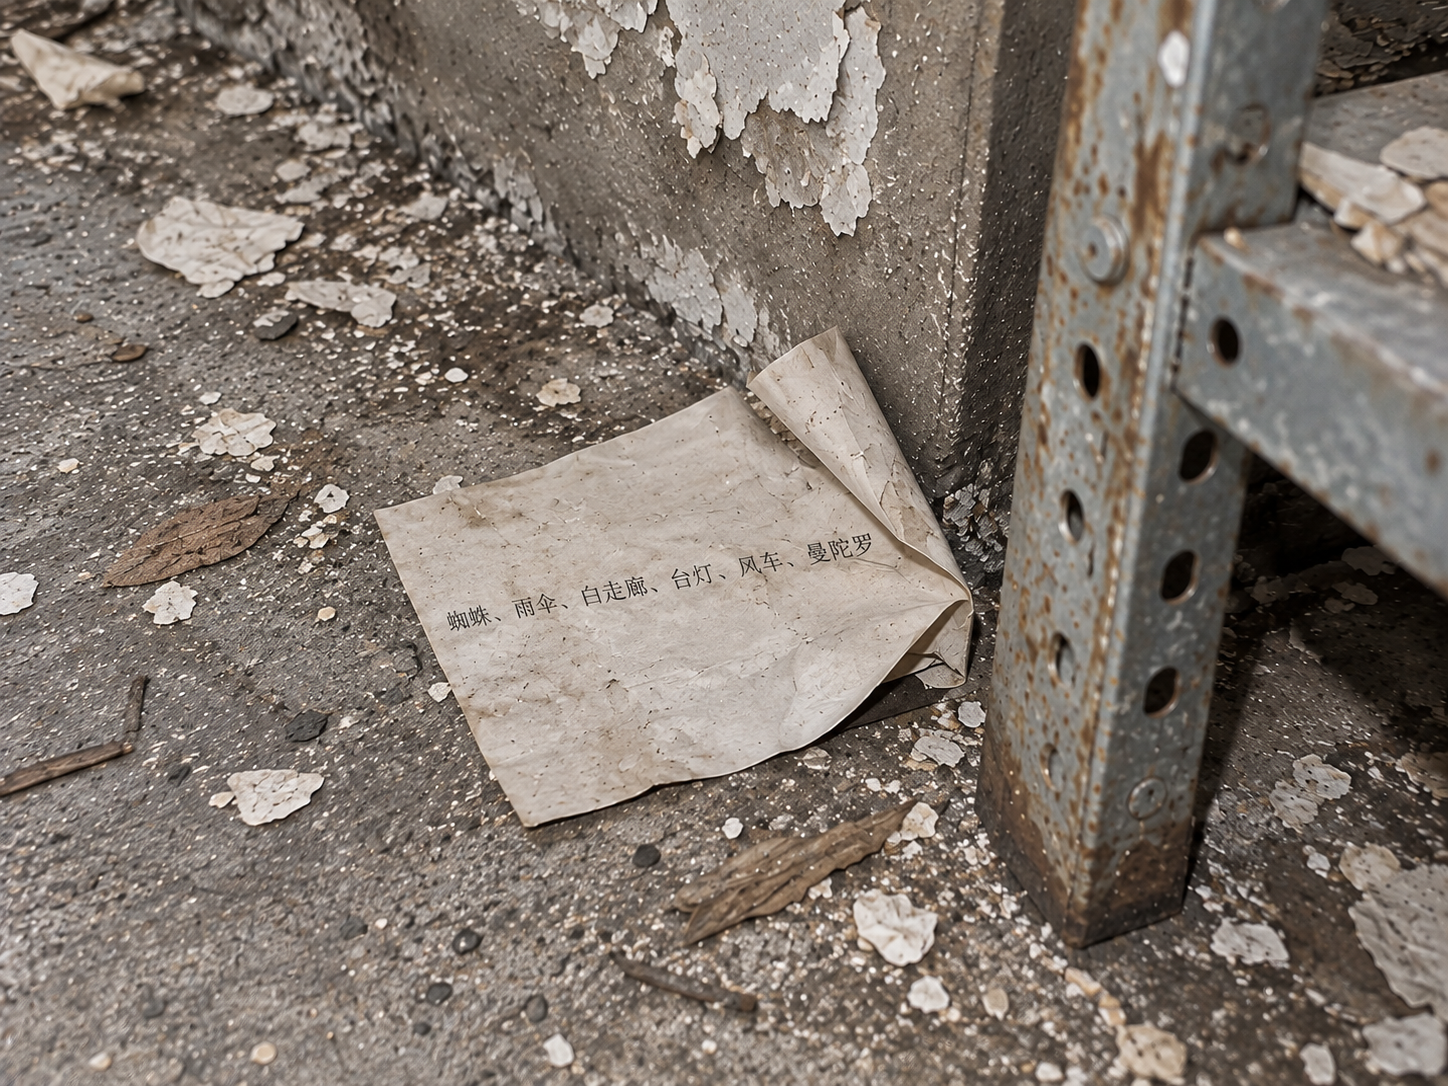
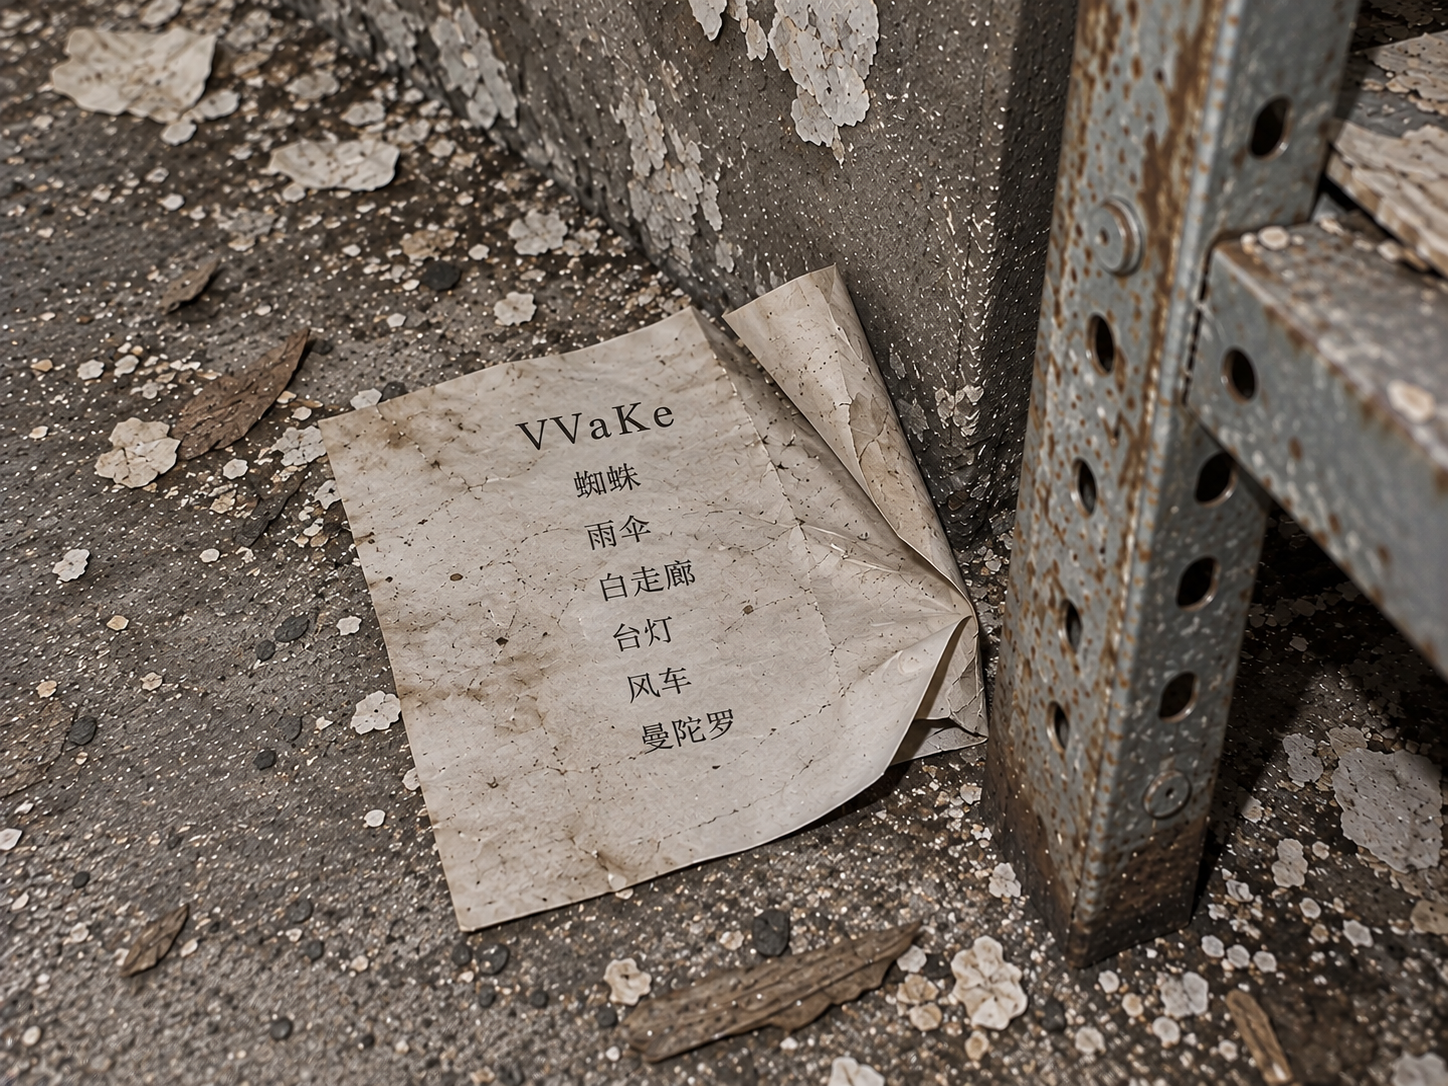
Fix archive title and cave rock details

diff --git a/docs/ux-investigation-20261014/art/review-log.md b/docs/ux-investigation-20261014/art/review-log.md
@@ -2,6 +2,6 @@
 
 All 112 canonical job IDs have a PNG native and WebP file under the art worktree. Each file decoded successfully with Pillow verification and has the expected file format. Output dimensions, byte sizes and SHA-256 hashes are recorded in `asset-ledger.json`; aspect comparisons use the latest parent manifest.
 
-Prompt coverage: 62 saved verbatim prompt files and 50 post-hoc summaries labeled as non-verbatim. The summaries contain only information recovered from the frozen job records.
+Prompt coverage: 65 saved verbatim prompt files and 47 post-hoc summaries labeled as non-verbatim. The summaries contain only information recovered from the frozen job records.
 
-Seven targeted replacements were produced from parent review notes. Their prior canonical files and prompt evidence are preserved and hashed. The parent is conducting the final visual review; this log makes no visual acceptance claim.
+Seven earlier targeted replacements were produced from parent review notes; their prior canonical files and prompt evidence are preserved and hashed. The latest parent visual audit requested three more replacements: the archive paper now shows its VVaKe title and six required words, and both cave details use broader natural stone faces while preserving the entrance-left, interior-right, Xiaoyue-near-fire layout. The replaced canonical files and prior reconstructed prompt summaries are archived and hashed. These latest three images await parent visual review; this log makes no acceptance claim.

diff --git a/docs/ux-investigation-20261014/art/asset-ledger.md b/docs/ux-investigation-20261014/art/asset-ledger.md
@@ -1,9 +1,9 @@
 # UX investigation image asset ledger
 
 - Canonical frozen jobs: **112**; canonical PNG + WebP pairs: **112**.
-- Saved verbatim prompt records: **62**.
-- Reconstructed constraint summaries, explicitly not verbatim: **50**.
+- Saved verbatim prompt records: **65**.
+- Reconstructed constraint summaries, explicitly not verbatim: **47**.
 - PNG/WebP decode failures: **0**; aspect mismatches against latest manifest: **0**.
 - The full per-asset references, focus targets, paths, actual dimensions, byte sizes, SHA-256 hashes, prompt-record types and prior-candidate links are in `asset-ledger.json`.
 - Older and rejected candidates are preserved under `superseded/` or `rejected/` and individually hashed in the JSON ledger.
-- Parent visual review of the seven targeted replacements is pending.
+- The latest three targeted replacements are pending parent visual review.
